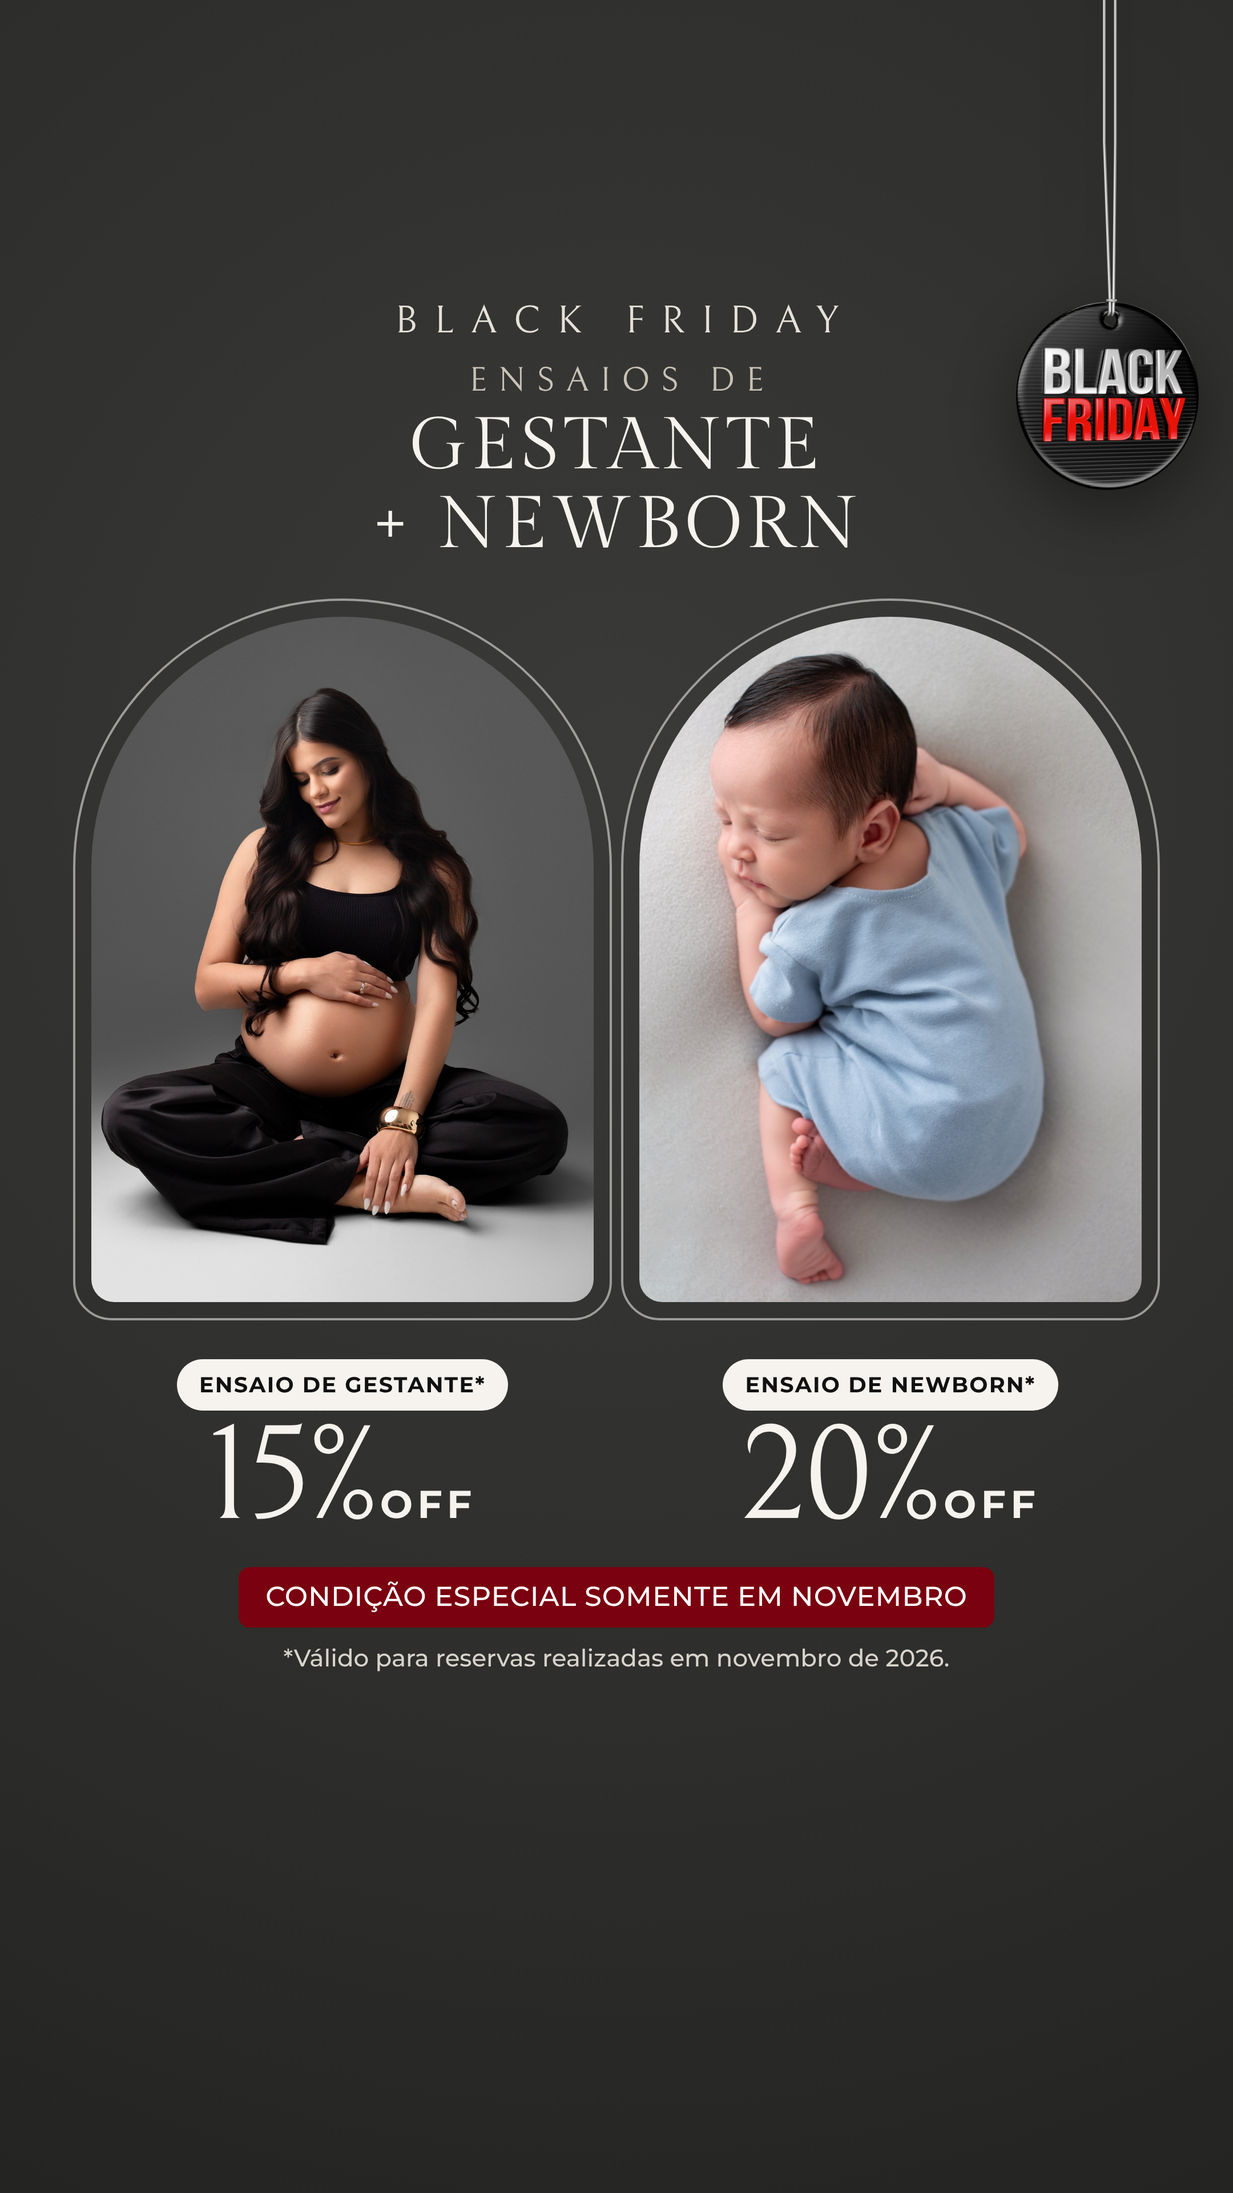
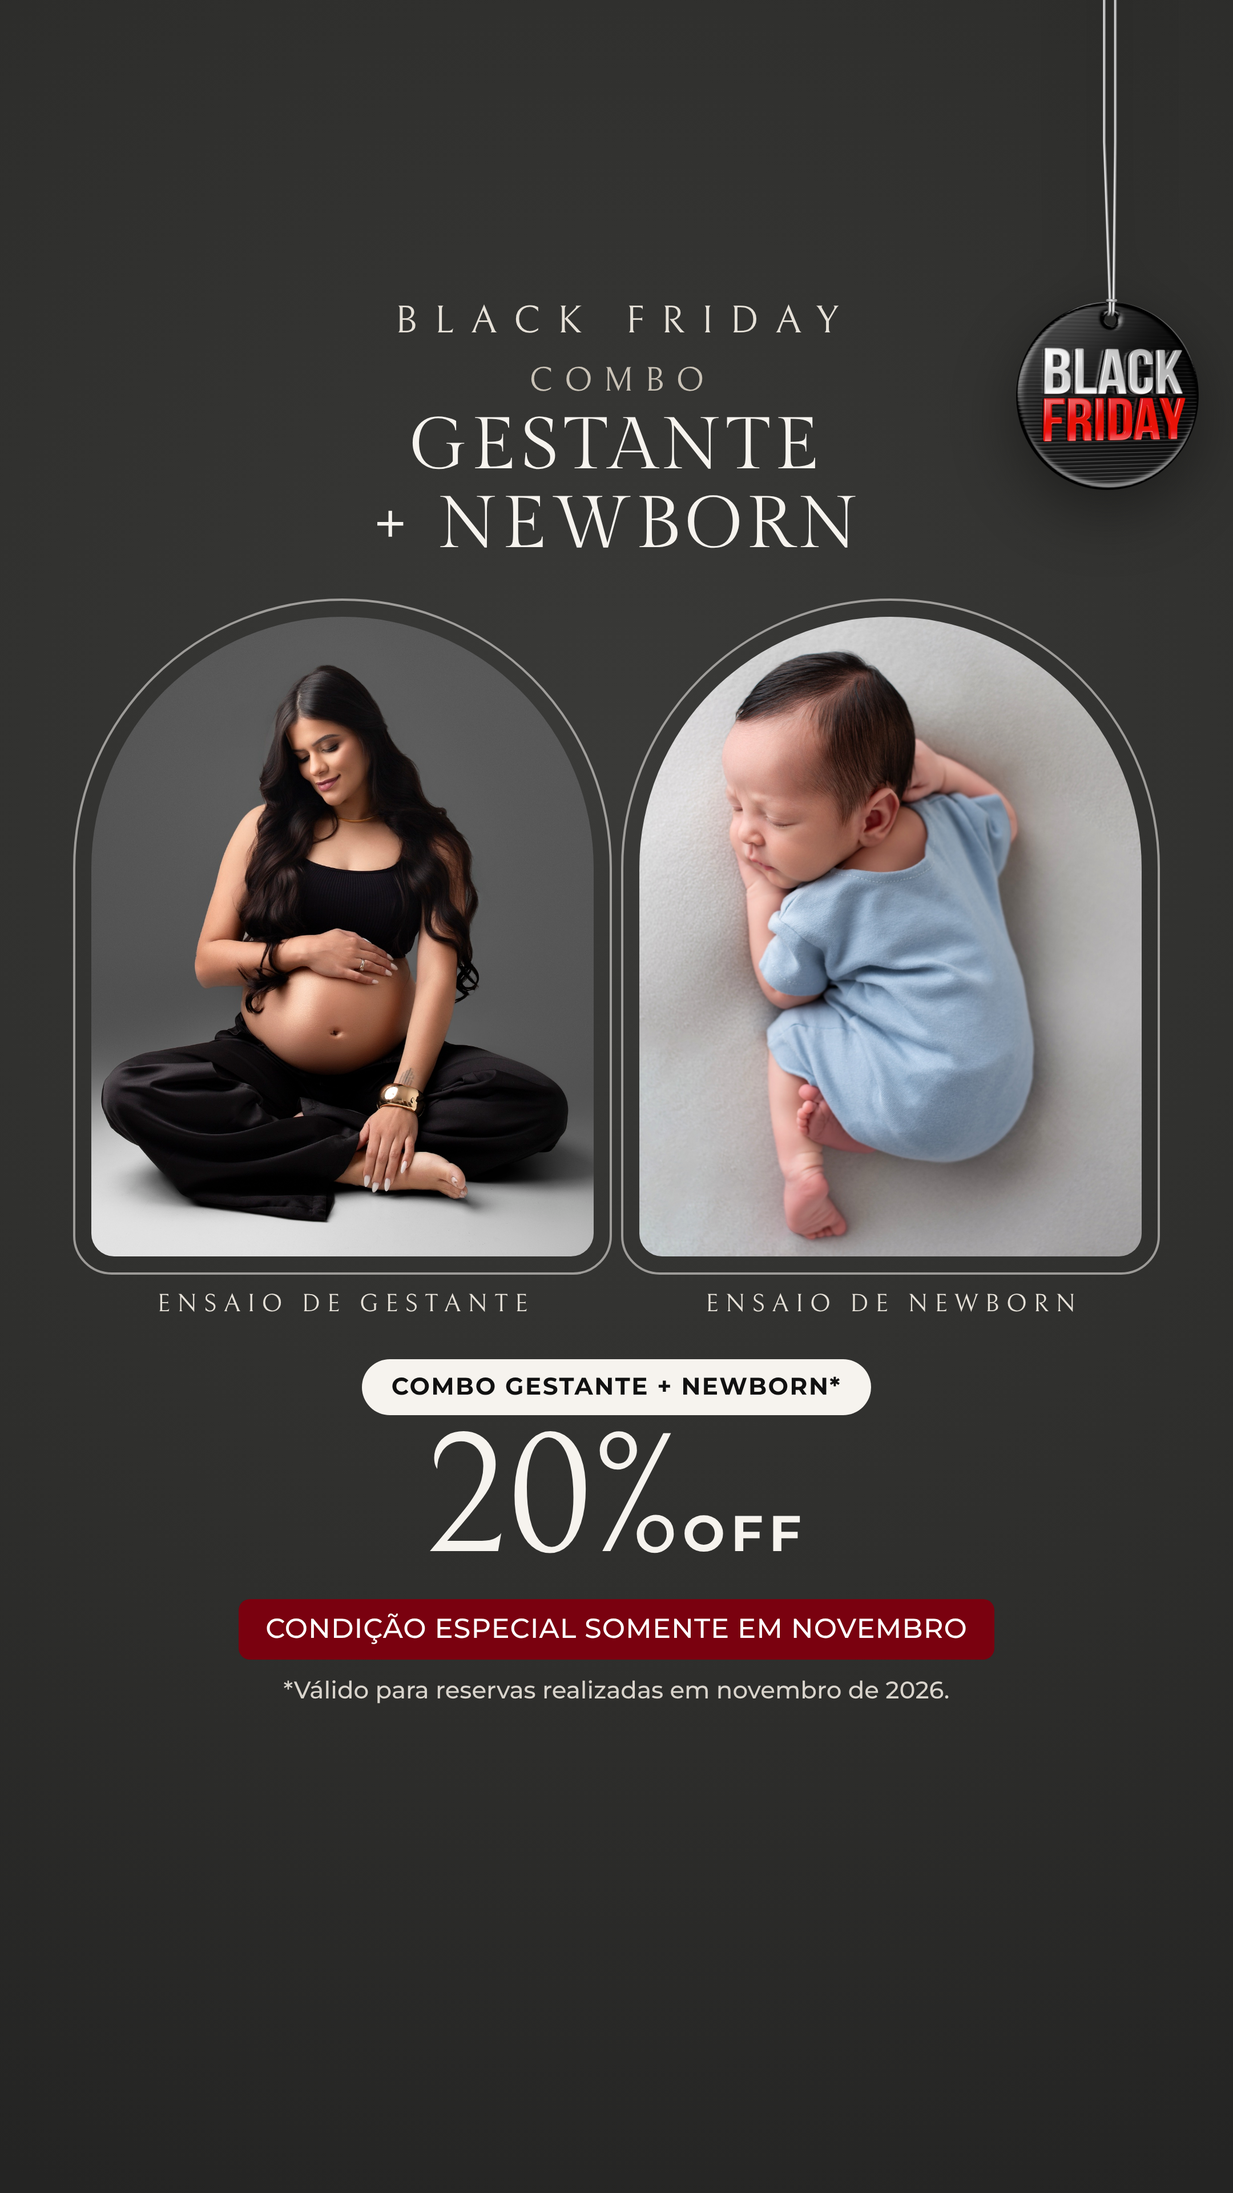
Ana Claudia Clicks: peças com as duas fotos viram o Combo Gestante + Newborn 20%
Nas 3 peças com foto de gestante e de bebê, sai o "15% / 20%" por foto e entra
uma oferta só, "Combo Gestante + Newborn 20% OFF"; cada foto leva o nome do seu
ensaio (Ensaio de Gestante / Ensaio de Newborn), sem porcentagem. As peças só de
gestante (15%) e só de newborn (20%) não mudam.

Claude-Session: https://claude.ai/code/session_01GQmGjzcDcCg5ZjPiHt6SBp

Changed region(s): [[0.062, 0.2812, 0.9306, 0.7812], [0.4653, 0.1562, 0.5583, 0.1875]]

diff --git a/criativos/anaclaudia-gestante-black-friday/pecas/capa.html b/criativos/anaclaudia-gestante-black-friday/pecas/capa.html
@@ -24,6 +24,8 @@
   .caixa .rotulo, .caixa .valor { width: 100%; }
   .bloco .caixa .pct-linha { color: var(--preto); }
   .pilula-vinho.duas { white-space: normal; line-height: 1.3; }
+  /* combo: nome de cada ensaio embaixo da sua foto */
+  .nome { font-family: var(--serif-fina); text-transform: uppercase; letter-spacing: .26em; padding-left: .26em; color: #e6e1d8; }
 
   /* STORY 1080x1920 — texto entre y=250 e y=1530 */
   .story .etiqueta { --w: 160px; --circ: 268px; right: 30px; }
@@ -52,13 +54,15 @@
   .story.um-h .pilula-vinho { margin-top: 18px; }
   .story.um-h .nota { margin-top: 14px; }
   /* dois: desconto embaixo de cada arco */
-  .story.dois .colunas { left: 80px; right: 80px; top: 1190px; gap: 40px; }
+  .story.dois .colunas { left: 80px; right: 80px; top: 1130px; gap: 40px; }
   .story.dois .col { width: 440px; }
-  .story.dois .pilula-preta { font-size: 19px; padding: 11px 20px; }
-  .story.dois .col .pct { font-size: 118px; }
-  .story.dois .col .off { font-size: 34px; }
-  .story.dois .col .pct-linha { margin-top: 6px; }
-  .story.dois .bloco { left: 60px; right: 60px; top: 1372px; }
+  .story.dois .nome { font-size: 22px; }
+  .story.dois .bloco { left: 60px; right: 60px; top: 1190px; }
+  .story.dois .pilula-preta { font-size: 21px; padding: 12px 26px; }
+  .story.dois .bloco .pct { font-size: 150px; }
+  .story.dois .bloco .off { font-size: 44px; }
+  .story.dois .bloco .pct-linha { margin-top: 8px; }
+  .story.dois .pilula-vinho { margin-top: 18px; }
   .story.dois .nota { margin-top: 14px; }
 
   /* FEED 4:5 1080x1350 */
@@ -85,13 +89,15 @@
   .feed.um-h .bloco .pct-linha { margin-top: 6px; }
   .feed.um-h .pilula-vinho { margin-top: 14px; }
   .feed.um-h .nota { margin-top: 12px; }
-  .feed.dois .colunas { left: 80px; right: 80px; top: 782px; gap: 40px; }
+  .feed.dois .colunas { left: 80px; right: 80px; top: 736px; gap: 40px; }
   .feed.dois .col { width: 440px; }
-  .feed.dois .pilula-preta { font-size: 17px; padding: 9px 18px; }
-  .feed.dois .col .pct { font-size: 92px; }
-  .feed.dois .col .off { font-size: 28px; }
-  .feed.dois .col .pct-linha { margin-top: 4px; }
-  .feed.dois .bloco { left: 60px; right: 60px; top: 942px; }
+  .feed.dois .nome { font-size: 18px; }
+  .feed.dois .bloco { left: 60px; right: 60px; top: 780px; }
+  .feed.dois .pilula-preta { font-size: 18px; padding: 10px 22px; }
+  .feed.dois .bloco .pct { font-size: 116px; }
+  .feed.dois .bloco .off { font-size: 34px; }
+  .feed.dois .bloco .pct-linha { margin-top: 6px; }
+  .feed.dois .pilula-vinho { margin-top: 14px; }
   .feed.dois .nota { margin-top: 12px; }
 </style>
 </head>
@@ -107,7 +113,7 @@
     const topo = {
       gestante: '<p class="ensaio">Ensaio de</p><img class="wordmark" src="../assets/marca/gestante-wordmark.png" alt="Gestante">',
       newborn: '<p class="ensaio">Ensaio de</p><h1 class="titulo">Newborn</h1>',
-      juntos: `<p class="ensaio">Ensaios de</p><h1 class="titulo">Gestante${fmt === 'story' ? '<br>' : ' '}+ Newborn</h1>`,
+      juntos: `<p class="ensaio">Combo</p><h1 class="titulo">Gestante${fmt === 'story' ? '<br>' : ' '}+ Newborn</h1>`,
     }[p.grupo];
     document.querySelector('.topo').innerHTML = `<p class="espacado">Black Friday</p>${topo}`;
     const fim = (duas = false) => `<span class="pilula-vinho${duas ? ' duas' : ''}">${CONDICAO}</span><p class="nota">${NOTA}</p>`;
@@ -119,8 +125,10 @@
       const o = OFERTAS.newborn;
       bloco.innerHTML = `<span class="pilula-preta">${o.rotulo}</span>${pctHTML(o)}${fim()}`;
     } else {
-      colunas.innerHTML = ['gestante', 'newborn'].map(k => `<div class="col"><span class="pilula-preta">${OFERTAS[k].rotulo}</span>${pctHTML(OFERTAS[k])}</div>`).join('');
-      bloco.innerHTML = fim();
+      // combo: uma oferta só (20%) para as duas fotos; embaixo de cada foto, o nome do ensaio
+      colunas.innerHTML = ['Ensaio de Gestante', 'Ensaio de Newborn'].map(n => `<div class="col"><p class="nome">${n}</p></div>`).join('');
+      const o = OFERTAS.combo;
+      bloco.innerHTML = `<span class="pilula-preta">${o.rotulo}</span>${pctHTML(o)}${fim()}`;
     }
     await montarQuadros(p.quadros[fmt]);
     pronto();

diff --git a/criativos/anaclaudia-gestante-black-friday/pecas/convite.html b/criativos/anaclaudia-gestante-black-friday/pecas/convite.html
@@ -32,13 +32,9 @@
   .story .nota { font-size: 21px; left: 570px; right: 40px; }
   .story.fotos-1 .oferta { top: 660px; }
   .story.fotos-1 .nota { top: 1150px; }
-  .story.fotos-2 .oferta.o1 { top: 640px; }
-  .story.fotos-2 .oferta.o2 { top: 1180px; }
-  .story.fotos-2 .oferta .ensaio { font-size: 56px; }
-  .story.fotos-2 .pct { font-size: 120px; }
-  .story.fotos-2 .off { font-size: 36px; }
-  .story.fotos-2 .linha { margin: 16px 0 16px; }
-  .story.fotos-2 .nota { top: 1470px; }
+  .story.fotos-2 .oferta.o1 { top: 700px; }
+  .story.fotos-2 .oferta .ensaio { font-size: 66px; }
+  .story.fotos-2 .nota { top: 1250px; }
 
   /* FEED 4:5 1080x1350 */
   .feed .etiqueta { --w: 116px; --circ: 40px; right: 30px; }
@@ -55,13 +51,9 @@
   .feed .nota { font-size: 17px; left: 560px; right: 40px; }
   .feed.fotos-1 .oferta { top: 420px; }
   .feed.fotos-1 .nota { top: 850px; }
-  .feed.fotos-2 .oferta.o1 { top: 380px; }
-  .feed.fotos-2 .oferta.o2 { top: 870px; }
-  .feed.fotos-2 .oferta .ensaio { font-size: 46px; }
-  .feed.fotos-2 .pct { font-size: 104px; }
-  .feed.fotos-2 .off { font-size: 31px; }
-  .feed.fotos-2 .linha { margin: 12px 0 12px; }
-  .feed.fotos-2 .nota { top: 1150px; }
+  .feed.fotos-2 .oferta.o1 { top: 440px; }
+  .feed.fotos-2 .oferta .ensaio { font-size: 54px; }
+  .feed.fotos-2 .nota { top: 930px; }
 </style>
 </head>
 <body>
@@ -74,13 +66,13 @@
     const { p, fmt } = peca();
     document.querySelector('.topo').innerHTML = `<p class="espacado">Black Friday</p>
       <h1 class="titulo">Condição Especial<br>somente em Novembro</h1>`;
-    const chaves = p.grupo === 'juntos' ? ['gestante', 'newborn'] : [p.grupo];
-    chaves.forEach((k, i) => {
-      const o = OFERTAS[k], el = document.createElement('section');
-      el.className = `oferta o${i + 1}`;
-      el.innerHTML = `<p class="ensaio">Ensaio de<br>${k === 'gestante' ? 'Gestante' : 'Newborn'}*</p><div class="linha"></div>${pctHTML(o)}`;
-      document.body.appendChild(el);
-    });
+    // combo (duas fotos): uma oferta só, 20%, ao lado das duas fotos
+    const o = OFERTAS[p.grupo === 'juntos' ? 'combo' : p.grupo];
+    const nome = { gestante: 'Ensaio de<br>Gestante*', newborn: 'Ensaio de<br>Newborn*', juntos: 'Combo<br>Gestante<br>+ Newborn*' }[p.grupo];
+    const el = document.createElement('section');
+    el.className = 'oferta o1';
+    el.innerHTML = `<p class="ensaio">${nome}</p><div class="linha"></div>${pctHTML(o)}`;
+    document.body.appendChild(el);
     document.querySelector('.nota').innerHTML = NOTA.replace('reservas realizadas', 'reservas realizadas<br>');
     await montarQuadros(p.quadros[fmt]);
     pronto();

diff --git a/criativos/anaclaudia-gestante-black-friday/pecas/base.js b/criativos/anaclaudia-gestante-black-friday/pecas/base.js
@@ -4,14 +4,14 @@ import { PECAS, FOTOS } from './dados.js';
 
 export const CONDICAO = 'Condição Especial somente em Novembro';
 export const NOTA = '*Válido para reservas realizadas em novembro de 2026.';
-// Pedido de 03/11: deixar claro que é ensaio fotográfico e que gestante = 15% e newborn = 20%.
+// Pedido de 03/11: deixar claro que é ensaio fotográfico. Gestante sozinha = 15%, newborn sozinho = 20% e
+// as peças com as duas fotos (grupo juntos) = Combo Gestante + Newborn 20%.
 export const OFERTAS = {
   gestante: { rotulo: 'Ensaio de Gestante*', pct: '15%' },
   newborn: { rotulo: 'Ensaio de Newborn*', pct: '20%' },
+  combo: { rotulo: 'Combo Gestante + Newborn*', pct: '20%' },
 };
 export const pctHTML = o => `<span class="pct-linha"><span class="pct">${o.pct}</span><span class="off">OFF</span></span>`;
-// grupo da peça → ofertas que ela mostra (gestante = 15%, newborn = 20%, juntos = as duas)
-export const ofertasDo = g => (g === 'juntos' ? ['gestante', 'newborn'] : [g]).map(k => OFERTAS[k]);
 
 export function peca() {
   const fmt = location.hash.slice(1) || 'story';
@@ -26,7 +26,8 @@ export function peca() {
 // A foto só é cortada e reduzida: escala = px exportados por px da foto original, nunca acima de 1.
 // regiao = [x0, y0, x1, y1] (0–1): parte da foto que tem de aparecer inteira e centralizada na janela
 // (a pessoa ou o bebê com uma folga); sem regiao, usa fx/fy (centro) e zoom (escala), como antes.
-// legenda = 'gestante' | 'newborn': no impresso, a borda de baixo é mais alta e leva o desconto daquela foto.
+// legenda: no impresso, a borda de baixo é mais alta e leva um texto. Chave de OFERTAS → rótulo + desconto;
+// qualquer outro texto → só esse texto (ex.: 'Ensaio de Gestante' nas peças do combo).
 export async function montarQuadros(lista, alvo = document.body) {
   window.__escalas = [];
   for (const q of lista) {
@@ -47,7 +48,8 @@ export async function montarQuadros(lista, alvo = document.body) {
     }
     if (q.legenda) {
       const o = OFERTAS[q.legenda], l = document.createElement('div'); l.className = 'legenda';
-      l.innerHTML = `<span class="rot">${o.rotulo}</span>${pctHTML(o)}`; m.appendChild(l);
+      l.innerHTML = o ? `<span class="rot">${o.rotulo}</span>${pctHTML(o)}` : `<span class="nome">${q.legenda}</span>`;
+      m.appendChild(l);
     }
     alvo.appendChild(m);
     await img.decode();

diff --git a/criativos/anaclaudia-gestante-black-friday/pecas/dados.js b/criativos/anaclaudia-gestante-black-friday/pecas/dados.js
@@ -55,21 +55,21 @@ export const PECAS = [
   { id: 'n3-convite-tule', layout: 'convite', grupo: 'newborn',
     quadros: { story: [f('nb-tule-vertical', 'card', 60, 500, 480, 800)], feed: [f('nb-tule-vertical', 'card', 60, 250, 470, 780)] } },
 
-  // ── Juntos · foto de gestante (15%) + foto do bebê (20%) ───────────────────────
+  // ── Juntos · Combo Gestante + Newborn 20% (as duas fotos) ──────────────────────
   { id: 'j1-capa-sentada-azul', layout: 'capa', grupo: 'juntos', variante: 'dois',
     quadros: {
-      story: [f('sentada', 'arco', 80, 540, 440, 600), f('nb-azul-vertical', 'arco', 560, 540, 440, 600)],
-      feed: [f('sentada', 'arco', 80, 225, 440, 520), f('nb-azul-vertical', 'arco', 560, 225, 440, 520)],
+      story: [f('sentada', 'arco', 80, 540, 440, 560), f('nb-azul-vertical', 'arco', 560, 540, 440, 560)],
+      feed: [f('sentada', 'arco', 80, 225, 440, 480), f('nb-azul-vertical', 'arco', 560, 225, 440, 480)],
     } },
   { id: 'j2-papel-tenis-touca', layout: 'editorial', grupo: 'juntos', variante: 'texto-topo',
     quadros: {
       story: [
-        f('branco-tenis', 'impresso', 600, 690, 400, 680, { rot: 3, legenda: 'gestante', z: 1 }),
-        f('nb-touca', 'impresso', 70, 880, 560, 384, { rot: -3, legenda: 'newborn', z: 2 }),
+        f('branco-tenis', 'impresso', 600, 800, 380, 600, { rot: 3, legenda: 'Ensaio de Gestante', leg: 72, z: 1 }),
+        f('nb-touca', 'impresso', 70, 950, 540, 370, { rot: -3, legenda: 'Ensaio de Newborn', leg: 72, z: 2 }),
       ],
       feed: [
-        f('branco-tenis', 'impresso', 110, 400, 340, 640, { rot: -2.5, legenda: 'gestante', leg: 110, z: 1 }),
-        f('nb-touca', 'impresso', 500, 510, 480, 330, { rot: 2.5, legenda: 'newborn', leg: 110, z: 2 }),
+        f('branco-tenis', 'impresso', 110, 520, 340, 600, { rot: -2.5, legenda: 'Ensaio de Gestante', leg: 62, z: 1 }),
+        f('nb-touca', 'impresso', 500, 600, 480, 330, { rot: 2.5, legenda: 'Ensaio de Newborn', leg: 62, z: 2 }),
       ],
     } },
   { id: 'j3-convite-tule-renda', layout: 'convite', grupo: 'juntos',

diff --git a/criativos/anaclaudia-gestante-black-friday/pecas/editorial.html b/criativos/anaclaudia-gestante-black-friday/pecas/editorial.html
@@ -28,7 +28,9 @@
   .story .ensaio { font-size: 46px; margin-top: 18px; }
   .story .wordmark { width: 540px; margin-top: 8px; }
   .story .titulo { font-size: 92px; margin-top: 0; }
-  .story.grupo-juntos .titulo { font-size: 78px; }
+  .story.grupo-juntos .titulo { font-size: 74px; }
+  .story.grupo-juntos .of .pct { font-size: 132px; }
+  .story.grupo-juntos .of .off { font-size: 40px; }
   .story .linhas { font-size: 24px; padding: 16px 0; margin-top: 26px; }
   .story .of { margin-top: 20px; }
   .story .of .pct { font-size: 150px; }
@@ -55,6 +57,8 @@
   .feed.foto-topo .ensaio { display: none; }
   .feed.texto-topo .texto { left: 150px; right: 150px; top: 48px; }
   .feed.texto-topo .titulo { font-size: 58px; }
+  .feed.texto-topo .of .pct { font-size: 104px; }
+  .feed.texto-topo .of .off { font-size: 32px; }
   .feed.texto-topo .ensaio { font-size: 30px; margin-top: 6px; }
 </style>
 </head>
@@ -69,10 +73,11 @@
     const titulo = {
       gestante: '<p class="ensaio">Ensaio de</p><img class="wordmark" src="../assets/marca/gestante-wordmark-escuro.png" alt="Gestante">',
       newborn: umaLinha ? '<h1 class="titulo">Ensaio de Newborn</h1>' : '<p class="ensaio">Ensaio de</p><h1 class="titulo">Newborn</h1>',
-      juntos: `<p class="ensaio">Ensaios de</p><h1 class="titulo">Gestante${umaLinha ? ' ' : '<br>'}+ Newborn</h1>`,
+      juntos: '<p class="ensaio">Combo</p><h1 class="titulo">Gestante + Newborn</h1>',
     }[p.grupo];
-    // nas peças com as duas fotos, o desconto vai na legenda de cada impresso
-    const oferta = p.grupo === 'juntos' ? '' : `<div class="of">${pctHTML(OFERTAS[p.grupo])}<p class="rot">${OFERTAS[p.grupo].rotulo}</p></div>`;
+    // combo (duas fotos): uma oferta só, 20%; cada impresso leva na legenda o nome do seu ensaio
+    const o = OFERTAS[p.grupo === 'juntos' ? 'combo' : p.grupo];
+    const oferta = `<div class="of">${pctHTML(o)}<p class="rot">${o.rotulo}</p></div>`;
     document.querySelector('.texto').innerHTML = `
       <p class="espacado">Black Friday</p>${titulo}
       <p class="linhas">${CONDICAO}</p>${oferta}

diff --git a/criativos/anaclaudia-gestante-black-friday/pecas/base.css b/criativos/anaclaudia-gestante-black-friday/pecas/base.css
@@ -69,6 +69,8 @@ body.feed { height: 1350px; }
 .legenda .rot { font-weight: 600; text-transform: uppercase; letter-spacing: .1em; font-size: 21px; }
 .legenda .pct { font-size: 84px; margin-top: 4px; }
 .legenda .off { font-size: 26px; }
+.legenda .nome { font-family: var(--display); font-size: 34px; color: var(--tinta); }
+.feed .legenda .nome { font-size: 28px; }
 .feed .legenda .rot { font-size: 17px; }
 .feed .legenda .pct { font-size: 66px; margin-top: 2px; }
 .feed .legenda .off { font-size: 21px; }

diff --git a/criativos/anaclaudia-gestante-black-friday/README.md b/criativos/anaclaudia-gestante-black-friday/README.md
@@ -26,9 +26,9 @@ removida do projeto. Ela continua só no histórico do git.
 
 ## Peças
 
-Pedido de 03/11: deixar claro que é **ensaio fotográfico** e que **gestante = 15%** e **newborn = 20%**.
-Os textos usam "Ensaio de Gestante" e "Ensaio de Newborn". Nas peças com as duas fotos, cada foto leva o seu
-desconto colado nela (embaixo do arco, na legenda do impresso ou ao lado do card).
+Pedidos de 03/11: deixar claro que é **ensaio fotográfico** ("Ensaio de Gestante", "Ensaio de Newborn");
+**gestante sozinha = 15%**, **newborn sozinho = 20%** e as peças com as duas fotos são o
+**Combo Gestante + Newborn = 20%** (uma oferta só; cada foto leva o nome do seu ensaio, sem porcentagem).
 
 | Grupo | Oferta | Peça | Layout | Foto(s) |
 |---|---|---|---|---|
@@ -38,15 +38,13 @@ desconto colado nela (embaixo do arco, na legenda do impresso ou ao lado do card
 | Newborn | Ensaio de Newborn* **20% OFF** | `n1-capa-tule` | Capa escura, foto horizontal | newborn menina (tule, deitada) |
 | | | `n2-papel-botoes` | Papel com foto impressa | newborn menino (botões) |
 | | | `n3-convite-tule` | Convite | newborn menina (tule, vertical) |
-| Juntos | foto de gestante **15%** + foto do bebê **20%** | `j1-capa-sentada-azul` | Capa escura, dois arcos, desconto embaixo de cada foto | sentada + newborn menino (azul, vertical) |
-| | | `j2-papel-tenis-touca` | Papel com dois impressos (promo de setembro), desconto na legenda de cada impresso | branco com tênis + newborn menino (touca) |
-| | | `j3-convite-tule-renda` | Convite com duas fotos, desconto ao lado de cada foto | marrom de tule + newborn menina (renda) |
+| Combo | Combo Gestante + Newborn* **20% OFF** | `j1-capa-sentada-azul` | Capa escura, dois arcos com o nome de cada ensaio embaixo | sentada + newborn menino (azul, vertical) |
+| | | `j2-papel-tenis-touca` | Papel com dois impressos (promo de setembro), nome do ensaio na legenda de cada um | branco com tênis + newborn menino (touca) |
+| | | `j3-convite-tule-renda` | Convite com duas fotos e a oferta do combo ao lado | marrom de tule + newborn menina (renda) |
 
 Em todas: "BLACK FRIDAY", etiqueta Black Friday do PDF, "Condição Especial somente em Novembro" e
 "\*Válido para reservas realizadas em novembro de 2026.". Sem valores em reais e sem logo, como pedido antes.
 
-**Confirmar:** o texto original da cliente dizia "Combo Gestante + Newborn 20% OFF"; a pedido da LAKS (03/11)
-as peças dizem "Ensaio de Newborn 20% OFF". Para voltar ao "Combo", basta trocar o rótulo em `pecas/base.js`.
 
 ## Como funciona
 
